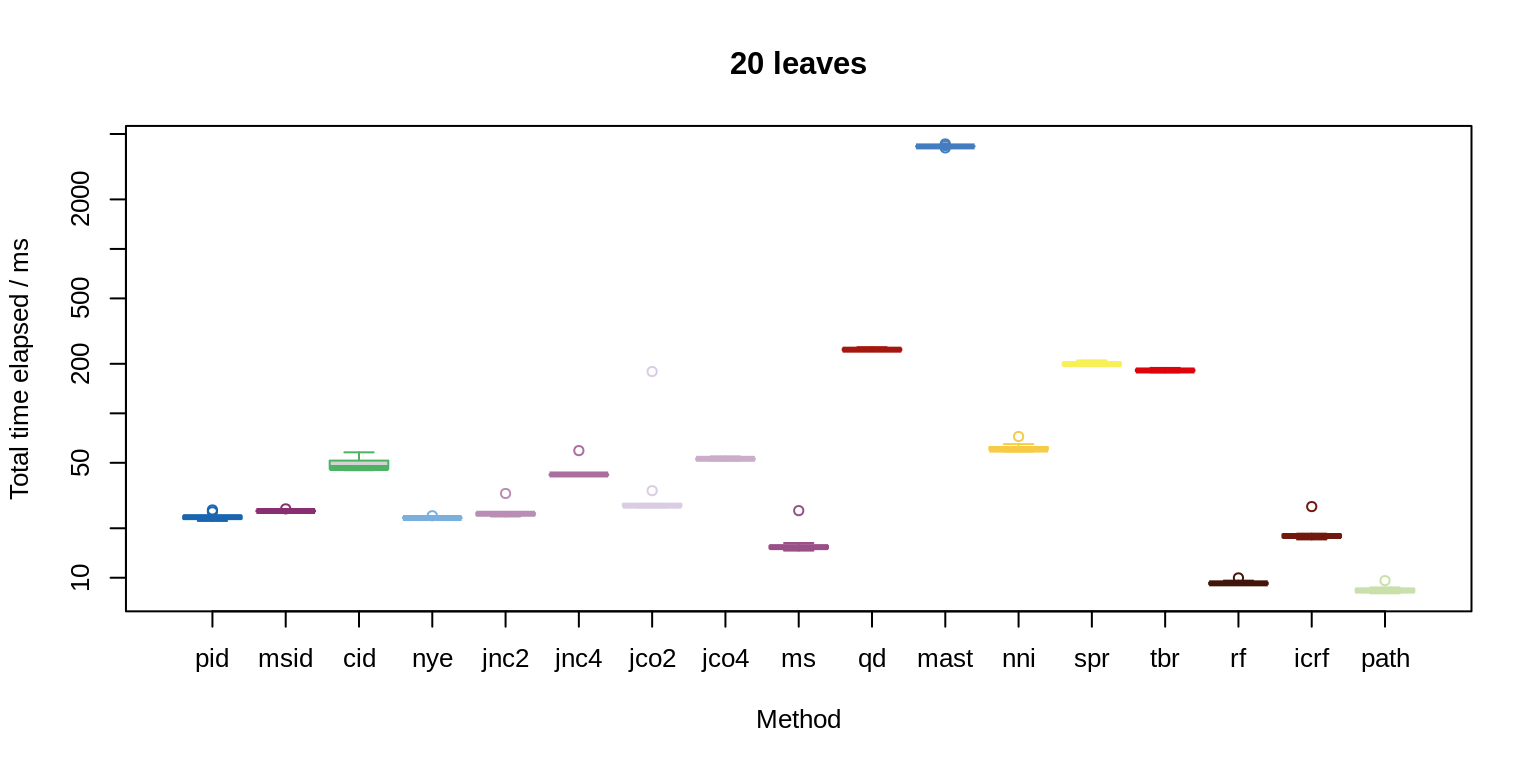
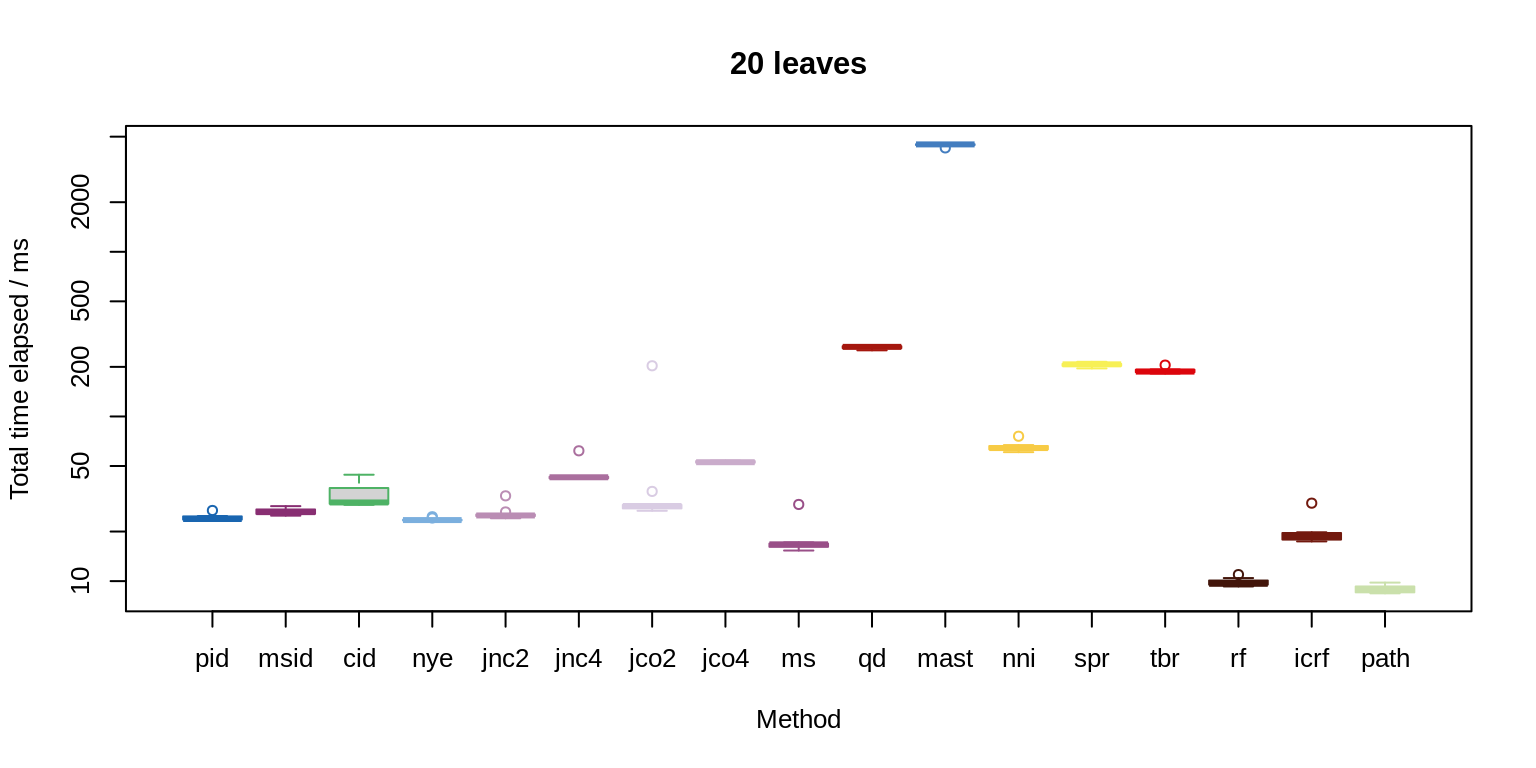
Built site for TreeDistData: 1.1.0@508a39b

diff --git a/articles/07-bullseye.html b/articles/07-bullseye.html
@@ -135,8 +135,8 @@
 <div id="tabulation" class="section level2">
 <h2 class="hasAnchor">
 <a href="#tabulation" class="anchor"></a>Tabulation</h2>
-<div id="htmlwidget-fb99cc27cd056dd5d457" style="width:100%;height:auto;" class="datatables html-widget"></div>
-<script type="application/json" data-for="htmlwidget-fb99cc27cd056dd5d457">{"x":{"filter":"none","data":[["Phylog. Info. Dist","Match. Split Info Dist","Clust. Info. Dist.","Quartet","Nye <i>et al.<\/i>","JRF (k = 2, no-confl.)","JRF (k = 4, no-confl.)","JRF (k = 2, confl.-ok)","JRF (k = 4, confl.-ok)","Match. Split Dist.","MAST size","MAST info","NNI (lwr bnd)","NNI (upr bnd)","SPR (approx.)","TBR (lwr bnd)","TBR (upr bnd)","Robinson-Foulds","Info. Corr. RF","Path"],["651","639","650","626","644","642","629","631","635","636","498","498","410","444","406","312","398","410","638","633"],["937","902","941","809","961","965","929","955","931","777","622","622","781","802","613","604","693","781","785","704"],["0.708","0.686","0.714","0.619","0.704","0.711","0.671","0.699","0.669","0.665","0.515","0.515","0.595","0.583","0.329","0.439","0.339","0.595","0.643","0.621"],["0.935","0.913","0.935","0.861","0.936","0.943","0.925","0.937","0.927","0.785","0.793","0.793","0.903","0.902","0.721","0.837","0.84","0.903","0.746","0.6"]],"container":"<table class=\"display\">\n  <thead>\n    <tr>\n      <th>Method<\/th>\n      <th>Subsampling: Success rate (50 leaves)<\/th>\n      <th>Miscoding: Success rate (50 leaves)<\/th>\n      <th>Subsampling: Accuracy (ρ)<\/th>\n      <th>Miscoding: Accuracy (ρ)<\/th>\n    <\/tr>\n  <\/thead>\n<\/table>","options":{"paging":false,"searching":false,"info":false,"order":[],"autoWidth":false,"orderClasses":false}},"evals":[],"jsHooks":[]}</script>
+<div id="htmlwidget-641c8507c1d8e4777431" style="width:100%;height:auto;" class="datatables html-widget"></div>
+<script type="application/json" data-for="htmlwidget-641c8507c1d8e4777431">{"x":{"filter":"none","data":[["Phylog. Info. Dist","Match. Split Info Dist","Clust. Info. Dist.","Quartet","Nye <i>et al.<\/i>","JRF (k = 2, no-confl.)","JRF (k = 4, no-confl.)","JRF (k = 2, confl.-ok)","JRF (k = 4, confl.-ok)","Match. Split Dist.","MAST size","MAST info","NNI (lwr bnd)","NNI (upr bnd)","SPR (approx.)","TBR (lwr bnd)","TBR (upr bnd)","Robinson-Foulds","Info. Corr. RF","Path"],["651","639","650","626","644","642","629","631","635","636","498","498","410","444","406","312","398","410","638","633"],["937","902","941","809","961","965","929","955","931","777","622","622","781","802","613","604","693","781","785","704"],["0.708","0.686","0.714","0.619","0.704","0.711","0.671","0.699","0.669","0.665","0.515","0.515","0.595","0.583","0.329","0.439","0.339","0.595","0.643","0.621"],["0.935","0.913","0.935","0.861","0.936","0.943","0.925","0.937","0.927","0.785","0.793","0.793","0.903","0.902","0.721","0.837","0.84","0.903","0.746","0.6"]],"container":"<table class=\"display\">\n  <thead>\n    <tr>\n      <th>Method<\/th>\n      <th>Subsampling: Success rate (50 leaves)<\/th>\n      <th>Miscoding: Success rate (50 leaves)<\/th>\n      <th>Subsampling: Accuracy (ρ)<\/th>\n      <th>Miscoding: Accuracy (ρ)<\/th>\n    <\/tr>\n  <\/thead>\n<\/table>","options":{"paging":false,"searching":false,"info":false,"order":[],"autoWidth":false,"orderClasses":false}},"evals":[],"jsHooks":[]}</script>
 </div>
   </div>
 

diff --git a/articles/06-lin-cluster-recovery.html b/articles/06-lin-cluster-recovery.html
@@ -132,8 +132,8 @@
 <h2 class="hasAnchor">
 <a href="#rankings" class="anchor"></a>Rankings</h2>
 <p>Rankings were calculated for each value of <em>k</em> and each clustering method, using lowest value in ties. The table reports the average ranking for all values of <em>k</em> and all clustering methods for each test.</p>
-<div id="htmlwidget-81bd4c83eb282d3f79ff" style="width:100%;height:auto;" class="datatables html-widget"></div>
-<script type="application/json" data-for="htmlwidget-81bd4c83eb282d3f79ff">{"x":{"filter":"none","data":[["Nye <i>et al.<\/i>","JRF (k = 2, confl.-ok)","Clust. Info. Dist.","Match. Split Info Dist","JRF (k = 4, confl.-ok)","JRF (k = 2, no-confl.)","Match. Split Dist.","JRF (k = 4, no-confl.)","Quartet","Phylog. Info. Dist","TBR (upr bnd)","SPR (approx.)","NNI (upr bnd)","NNI (lwr bnd)","Robinson-Foulds","TBR (lwr bnd)","Path","Info. Corr. RF"],["4.66","5.4","4.46","4.62","8.08","7.36","7.26","9.52","5.14","6.5","11.58","12.18","13.38","13.84","13.84","12.7","14.14","16.34"],["4.15","5","7.1","5.45","6.75","11.475","3.825","10.825","9.55","13.75","11.4","9.225","11.15","10.975","10.975","11.475","11.9","16.025"],["3.76","2.6","5.96","9.46","4.7","2.76","14.84","5.96","12.38","7.1","10.72","13","10.82","11.24","11.24","12.74","16.14","15.58"],["4.19","4.33","5.84","6.51","6.51","7.2","8.64","8.77","9.02","9.12","11.23","11.47","11.78","12.02","12.02","12.3","14.06","15.98"]],"container":"<table class=\"display\">\n  <thead>\n    <tr>\n      <th>Method<\/th>\n      <th>Test one<\/th>\n      <th>Test two<\/th>\n      <th>Test three<\/th>\n      <th>Mean rank<\/th>\n    <\/tr>\n  <\/thead>\n<\/table>","options":{"paging":false,"searching":false,"info":false,"order":[],"autoWidth":false,"orderClasses":false}},"evals":[],"jsHooks":[]}</script>
+<div id="htmlwidget-fbf346100837b04c4799" style="width:100%;height:auto;" class="datatables html-widget"></div>
+<script type="application/json" data-for="htmlwidget-fbf346100837b04c4799">{"x":{"filter":"none","data":[["Nye <i>et al.<\/i>","JRF (k = 2, confl.-ok)","Clust. Info. Dist.","Match. Split Info Dist","JRF (k = 4, confl.-ok)","JRF (k = 2, no-confl.)","Match. Split Dist.","JRF (k = 4, no-confl.)","Quartet","Phylog. Info. Dist","TBR (upr bnd)","SPR (approx.)","NNI (upr bnd)","NNI (lwr bnd)","Robinson-Foulds","TBR (lwr bnd)","Path","Info. Corr. RF"],["4.66","5.4","4.46","4.62","8.08","7.36","7.26","9.52","5.14","6.5","11.58","12.18","13.38","13.84","13.84","12.7","14.14","16.34"],["4.15","5","7.1","5.45","6.75","11.475","3.825","10.825","9.55","13.75","11.4","9.225","11.15","10.975","10.975","11.475","11.9","16.025"],["3.76","2.6","5.96","9.46","4.7","2.76","14.84","5.96","12.38","7.1","10.72","13","10.82","11.24","11.24","12.74","16.14","15.58"],["4.19","4.33","5.84","6.51","6.51","7.2","8.64","8.77","9.02","9.12","11.23","11.47","11.78","12.02","12.02","12.3","14.06","15.98"]],"container":"<table class=\"display\">\n  <thead>\n    <tr>\n      <th>Method<\/th>\n      <th>Test one<\/th>\n      <th>Test two<\/th>\n      <th>Test three<\/th>\n      <th>Mean rank<\/th>\n    <\/tr>\n  <\/thead>\n<\/table>","options":{"paging":false,"searching":false,"info":false,"order":[],"autoWidth":false,"orderClasses":false}},"evals":[],"jsHooks":[]}</script>
 </div>
   </div>
 

diff --git a/articles/05-tree-shape.html b/articles/05-tree-shape.html
@@ -130,8 +130,8 @@
 <p><img src="05-tree-shape_files/figure-html/tree-shapes-1.png" width="576" style="display: block; margin: auto;"></p>
 <p>To evaluate the extent to which trees are ranked as less (or more) different simply because they exhibit the same shape, I evaluated the extent to which tree distance could be predicted based only on knowledge of the topology of the two input trees.</p>
 <p><img src="05-tree-shape_files/figure-html/analyse-1.png" width="576" style="display: block; margin: auto;"></p>
-<div id="htmlwidget-f51c218b7390e8657d4d" style="width:100%;height:auto;" class="datatables html-widget"></div>
-<script type="application/json" data-for="htmlwidget-f51c218b7390e8657d4d">{"x":{"filter":"none","data":[["Phylog. Info. Dist","Match. Split Info Dist","Clust. Info. Dist.","Quartet","Nye <i>et al.<\/i>","JRF (k = 2, no-confl.)","JRF (k = 4, no-confl.)","JRF (k = 2, confl.-ok)","JRF (k = 4, confl.-ok)","Match. Split Dist.","MAST size","MAST info","NNI (lwr bnd)","NNI (ub tight)","NNI (upr bnd)","SPR (approx.)","TBR (lwr bnd)","TBR (upr bnd)","Robinson-Foulds","Info. Corr. RF","Path"],["0.0095","0.013","0.01","1e-04","0.0136","0.0097","0.0044","0.0037","0.0021","0.0661","0.0075","0.0078","0.0192","0.0156","0.0265","0.0099","0.0089","0.0011","0.0192","0.2484","0.4852"],["0.0093","0.0128","0.0098","-1e-04","0.0134","0.0095","0.0042","0.0035","0.0019","0.0659","0.0074","0.0076","0.019","0.0154","0.0263","0.0098","0.0087","9e-04","0.019","0.2483","0.4851"]],"container":"<table class=\"display\">\n  <thead>\n    <tr>\n      <th>Method<\/th>\n      <th>r²<\/th>\n      <th>adjusted r²<\/th>\n    <\/tr>\n  <\/thead>\n<\/table>","options":{"paging":false,"searching":false,"info":false,"order":[],"autoWidth":false,"orderClasses":false}},"evals":[],"jsHooks":[]}</script>
+<div id="htmlwidget-efff0794b2610261305a" style="width:100%;height:auto;" class="datatables html-widget"></div>
+<script type="application/json" data-for="htmlwidget-efff0794b2610261305a">{"x":{"filter":"none","data":[["Phylog. Info. Dist","Match. Split Info Dist","Clust. Info. Dist.","Quartet","Nye <i>et al.<\/i>","JRF (k = 2, no-confl.)","JRF (k = 4, no-confl.)","JRF (k = 2, confl.-ok)","JRF (k = 4, confl.-ok)","Match. Split Dist.","MAST size","MAST info","NNI (lwr bnd)","NNI (ub tight)","NNI (upr bnd)","SPR (approx.)","TBR (lwr bnd)","TBR (upr bnd)","Robinson-Foulds","Info. Corr. RF","Path"],["0.0095","0.013","0.01","1e-04","0.0136","0.0097","0.0044","0.0037","0.0021","0.0661","0.0075","0.0078","0.0192","0.0156","0.0265","0.0099","0.0089","0.0011","0.0192","0.2484","0.4852"],["0.0093","0.0128","0.0098","-1e-04","0.0134","0.0095","0.0042","0.0035","0.0019","0.0659","0.0074","0.0076","0.019","0.0154","0.0263","0.0098","0.0087","9e-04","0.019","0.2483","0.4851"]],"container":"<table class=\"display\">\n  <thead>\n    <tr>\n      <th>Method<\/th>\n      <th>r²<\/th>\n      <th>adjusted r²<\/th>\n    <\/tr>\n  <\/thead>\n<\/table>","options":{"paging":false,"searching":false,"info":false,"order":[],"autoWidth":false,"orderClasses":false}},"evals":[],"jsHooks":[]}</script>
 </div>
 
   <div class="col-md-3 hidden-xs hidden-sm" id="pkgdown-sidebar">

diff --git a/articles/01-length-of-move.html b/articles/01-length-of-move.html
@@ -138,8 +138,8 @@
 <p><img src="01-length-of-move_files/figure-html/unnamed-chunk-2-1.png" width="691.2"></p>
 <p>The <em>move length</em> between any pair of these trees is defined as the number of nodes that must be traversed to travel from the position of the eleventh leaf in one tree to its position in the second. I define a <em>mis-ordering</em> as a case where the distance between a pair of trees is not strictly larger than the distance between every tree pair with a shorter move length, or a case where the distance is not strictly smaller than that between every tree pair with a greater move length.</p>
 <p>We would like a metric to display a monotonic increase, such that all tree pairs with <em>n</em> edges between the added leaves are further apart than any tree pair with <em>n</em> − 1 edges between the added leaves.</p>
-<div id="htmlwidget-06daf564a7593eab6c1c" style="width:100%;height:auto;" class="datatables html-widget"></div>
-<script type="application/json" data-for="htmlwidget-06daf564a7593eab6c1c">{"x":{"filter":"none","data":[["Clust. Info. Dist.","Phylog. Info. Dist","Nye <i>et al.<\/i>","JRF (k = 2, confl.-ok)","JRF (k = 4, confl.-ok)","JRF (k = 2, no-confl.)","JRF (k = 4, no-confl.)","Robinson-Foulds","Info. Corr. RF","Path","Match. Split Info Dist","Match. Split Dist.","Quartet","MAST size","MAST info","NNI (upr bnd)","NNI (lwr bnd)","SPR (approx.)","TBR (lwr bnd)","TBR (upr bnd)"],[8,84,24,0,0,0,0,0,533,126,0,354,94,480,480,0,0,480,480,480]],"container":"<table class=\"display\">\n  <thead>\n    <tr>\n      <th>Method<\/th>\n      <th>Mis-orderings<\/th>\n    <\/tr>\n  <\/thead>\n<\/table>","options":{"paging":false,"searching":false,"info":false,"order":[],"autoWidth":false,"orderClasses":false}},"evals":[],"jsHooks":[]}</script>
+<div id="htmlwidget-9e18ac16ab02874ce284" style="width:100%;height:auto;" class="datatables html-widget"></div>
+<script type="application/json" data-for="htmlwidget-9e18ac16ab02874ce284">{"x":{"filter":"none","data":[["Clust. Info. Dist.","Phylog. Info. Dist","Nye <i>et al.<\/i>","JRF (k = 2, confl.-ok)","JRF (k = 4, confl.-ok)","JRF (k = 2, no-confl.)","JRF (k = 4, no-confl.)","Robinson-Foulds","Info. Corr. RF","Path","Match. Split Info Dist","Match. Split Dist.","Quartet","MAST size","MAST info","NNI (upr bnd)","NNI (lwr bnd)","SPR (approx.)","TBR (lwr bnd)","TBR (upr bnd)"],[8,84,24,0,0,0,0,0,533,126,0,354,94,480,480,0,0,480,480,480]],"container":"<table class=\"display\">\n  <thead>\n    <tr>\n      <th>Method<\/th>\n      <th>Mis-orderings<\/th>\n    <\/tr>\n  <\/thead>\n<\/table>","options":{"paging":false,"searching":false,"info":false,"order":[],"autoWidth":false,"orderClasses":false}},"evals":[],"jsHooks":[]}</script>
 </div>
   </div>
 

diff --git a/articles/04-saturation-and-sensitivity.html b/articles/04-saturation-and-sensitivity.html
@@ -127,8 +127,8 @@
     
     
 <p>Number of 100 000 trees at maximum distance from a pectinate 11-leaf reference tree:</p>
-<div id="htmlwidget-d9ca77720e28f80ec214" style="width:100%;height:auto;" class="datatables html-widget"></div>
-<script type="application/json" data-for="htmlwidget-d9ca77720e28f80ec214">{"x":{"filter":"none","data":[["Phylog. Info. Dist","Match. Split Info Dist","Clust. Info. Dist.","Quartet","Nye <i>et al.<\/i>","JRF (k = 2, no-confl.)","JRF (k = 4, no-confl.)","JRF (k = 2, confl.-ok)","JRF (k = 4, confl.-ok)","Match. Split Dist.","MAST size","MAST info","NNI (lwr bnd)","NNI (ub tight)","NNI (upr bnd)","SPR (approx.)","TBR (lwr bnd)","TBR (upr bnd)","Robinson-Foulds","Info. Corr. RF","Path","MAF info"],["36","1","1","1","2","36","36","1","2","11","6154","6154","86336","86336","86336","2388","7474","7474","86336","13044","1","2"],["26478","24167","28939","200","4381","19221","20488","27790","28781","28","7","7","6","12","16","5","4","7","6","208","302","20"]],"container":"<table class=\"display\">\n  <thead>\n    <tr>\n      <th>Method<\/th>\n      <th>Trees with maximum score<\/th>\n      <th>Unique distances<\/th>\n    <\/tr>\n  <\/thead>\n<\/table>","options":{"paging":false,"searching":false,"info":false,"order":[],"autoWidth":false,"orderClasses":false}},"evals":[],"jsHooks":[]}</script>
+<div id="htmlwidget-95c6f066f301f03fa30c" style="width:100%;height:auto;" class="datatables html-widget"></div>
+<script type="application/json" data-for="htmlwidget-95c6f066f301f03fa30c">{"x":{"filter":"none","data":[["Phylog. Info. Dist","Match. Split Info Dist","Clust. Info. Dist.","Quartet","Nye <i>et al.<\/i>","JRF (k = 2, no-confl.)","JRF (k = 4, no-confl.)","JRF (k = 2, confl.-ok)","JRF (k = 4, confl.-ok)","Match. Split Dist.","MAST size","MAST info","NNI (lwr bnd)","NNI (ub tight)","NNI (upr bnd)","SPR (approx.)","TBR (lwr bnd)","TBR (upr bnd)","Robinson-Foulds","Info. Corr. RF","Path","MAF info"],["36","1","1","1","2","36","36","1","2","11","6154","6154","86336","86336","86336","2388","7474","7474","86336","13044","1","2"],["26478","24167","28939","200","4381","19221","20488","27790","28781","28","7","7","6","12","16","5","4","7","6","208","302","20"]],"container":"<table class=\"display\">\n  <thead>\n    <tr>\n      <th>Method<\/th>\n      <th>Trees with maximum score<\/th>\n      <th>Unique distances<\/th>\n    <\/tr>\n  <\/thead>\n<\/table>","options":{"paging":false,"searching":false,"info":false,"order":[],"autoWidth":false,"orderClasses":false}},"evals":[],"jsHooks":[]}</script>
 </div>
 
   <div class="col-md-3 hidden-xs hidden-sm" id="pkgdown-sidebar">

diff --git a/articles/10-timing.html b/articles/10-timing.html
@@ -139,7 +139,7 @@ The values reported in Smith <span class="citation">(2020)</span> were calculate
 <h2 class="hasAnchor">
 <a href="#tabulation" class="anchor"></a>Tabulation</h2>
 <div id="htmlwidget-645c4a0173fa826ea5fd" style="width:100%;height:auto;" class="datatables html-widget"></div>
-<script type="application/json" data-for="htmlwidget-645c4a0173fa826ea5fd">{"x":{"filter":"none","caption":"<caption>Mean time per comparison / µs<\/caption>","data":[["Path","Robinson-Foulds","Match. Split Dist.","Info. Corr. RF","Nye <i>et al.<\/i>","Phylog. Info. Dist","JRF (k = 2, no-confl.)","Match. Split Info Dist","JRF (k = 2, confl.-ok)","JRF (k = 4, no-confl.)","Clust. Info. Dist.","JRF (k = 4, confl.-ok)","NNI (approx.)","TBR (approx.)","SPR (approx.)","Quartet","MAST size"],["8.5","9.4"," 17"," 19"," 23"," 24"," 25"," 26"," 44"," 44"," 49"," 53"," 62","180","200","250","4300"],[" 14"," 13"," 43"," 35","130"," 91","120","150","160","500","260","780"," 83","340","2200","450","21000"]],"container":"<table class=\"display\">\n  <thead>\n    <tr>\n      <th>Method<\/th>\n      <th>20 leaves<\/th>\n      <th>50 leaves<\/th>\n    <\/tr>\n  <\/thead>\n<\/table>","options":{"paging":false,"searching":false,"info":false,"order":[],"autoWidth":false,"orderClasses":false}},"evals":[],"jsHooks":[]}</script>
+<script type="application/json" data-for="htmlwidget-645c4a0173fa826ea5fd">{"x":{"filter":"none","caption":"<caption>Mean time per comparison / µs<\/caption>","data":[["Path","Robinson-Foulds","Match. Split Dist.","Info. Corr. RF","Nye <i>et al.<\/i>","Phylog. Info. Dist","JRF (k = 2, no-confl.)","Match. Split Info Dist","Clust. Info. Dist.","JRF (k = 4, no-confl.)","JRF (k = 2, confl.-ok)","JRF (k = 4, confl.-ok)","NNI (approx.)","TBR (approx.)","SPR (approx.)","Quartet","MAST size"],["  9","9.9"," 18"," 20"," 24"," 24"," 26"," 27"," 33"," 45"," 47"," 53"," 66","190","210","270","4500"],[" 15"," 15"," 44"," 34","130"," 92","110","150","140","500","160","780"," 86","350","2200","480","22000"]],"container":"<table class=\"display\">\n  <thead>\n    <tr>\n      <th>Method<\/th>\n      <th>20 leaves<\/th>\n      <th>50 leaves<\/th>\n    <\/tr>\n  <\/thead>\n<\/table>","options":{"paging":false,"searching":false,"info":false,"order":[],"autoWidth":false,"orderClasses":false}},"evals":[],"jsHooks":[]}</script>
 </div>
 <div id="reference" class="section level2 unnumbered">
 <h2 class="hasAnchor">

diff --git a/articles/09-expected-similarity.html b/articles/09-expected-similarity.html
@@ -139,8 +139,8 @@
 <h2 class="hasAnchor">
 <a href="#ranges" class="anchor"></a>Ranges</h2>
 <p>Average range of distance between random trees with 20–200 leaves, expressed as percentages of the median.</p>
-<div id="htmlwidget-fe5f3013c0a8a4be8fd1" style="width:100%;height:auto;" class="datatables html-widget"></div>
-<script type="application/json" data-for="htmlwidget-fe5f3013c0a8a4be8fd1">{"x":{"filter":"none","data":[["NNI (tgt upr bnd)","NNI (upr bnd)","Path","MAST info","NNI (lwr bnd)","Match. Split Dist.","NNI (tgt lwr bnd)","MAST size","Info. Corr. RF","SPR (approx.)","TBR (lwr bnd)","Match. Split Info Dist","TBR (upr bnd)","Nye <i>et al.<\/i>","Clust. Info. Dist.","Quartet","JRF (k = 2, confl.-ok)","Phylog. Info. Dist","JRF (k = 2, no-confl.)","JRF (k = 4, confl.-ok)","JRF (k = 4, no-confl.)","Robinson-Foulds"],["22.4","19.3","18.8","14.7","14.2","12.3","11.9","8.8","8.4","4.6","3.7","3.3","2.6","2","1.6","1.6","1.1","1","0.8","0.3","0.3","0"]],"container":"<table class=\"display\">\n  <thead>\n    <tr>\n      <th>Method<\/th>\n      <th>Range (%)<\/th>\n    <\/tr>\n  <\/thead>\n<\/table>","options":{"paging":false,"searching":false,"info":false,"order":[],"autoWidth":false,"orderClasses":false}},"evals":[],"jsHooks":[]}</script>
+<div id="htmlwidget-aab8ecdee9e589f610f2" style="width:100%;height:auto;" class="datatables html-widget"></div>
+<script type="application/json" data-for="htmlwidget-aab8ecdee9e589f610f2">{"x":{"filter":"none","data":[["NNI (tgt upr bnd)","NNI (upr bnd)","Path","MAST info","NNI (lwr bnd)","Match. Split Dist.","NNI (tgt lwr bnd)","MAST size","Info. Corr. RF","SPR (approx.)","TBR (lwr bnd)","Match. Split Info Dist","TBR (upr bnd)","Nye <i>et al.<\/i>","Clust. Info. Dist.","Quartet","JRF (k = 2, confl.-ok)","Phylog. Info. Dist","JRF (k = 2, no-confl.)","JRF (k = 4, confl.-ok)","JRF (k = 4, no-confl.)","Robinson-Foulds"],["22.4","19.3","18.8","14.7","14.2","12.3","11.9","8.8","8.4","4.6","3.7","3.3","2.6","2","1.6","1.6","1.1","1","0.8","0.3","0.3","0"]],"container":"<table class=\"display\">\n  <thead>\n    <tr>\n      <th>Method<\/th>\n      <th>Range (%)<\/th>\n    <\/tr>\n  <\/thead>\n<\/table>","options":{"paging":false,"searching":false,"info":false,"order":[],"autoWidth":false,"orderClasses":false}},"evals":[],"jsHooks":[]}</script>
 </div>
 <div id="references" class="section level2 unnumbered">
 <h2 class="hasAnchor">

diff --git a/articles/08-spr-walking.html b/articles/08-spr-walking.html
@@ -134,8 +134,8 @@
 <div id="tabulation" class="section level2">
 <h2 class="hasAnchor">
 <a href="#tabulation" class="anchor"></a>Tabulation</h2>
-<div id="htmlwidget-a5e33b3ab29fd9b9326e" style="width:100%;height:auto;" class="datatables html-widget"></div>
-<script type="application/json" data-for="htmlwidget-a5e33b3ab29fd9b9326e">{"x":{"filter":"none","data":[["TBR (lwr bnd)","Clust. Info. Dist.","NNI (ub tight)","TBR (upr bnd)","Quartet","Phylog. Info. Dist","MAST size","MAST info","Nye <i>et al.<\/i>","Match. Split Info Dist","JRF (k = 2, confl.-ok)","JRF (k = 2, no-confl.)","JRF (k = 4, confl.-ok)","JRF (k = 4, no-confl.)","SPR (approx.)","Match. Split Dist.","NNI (lwr bnd)","Robinson-Foulds","NNI (upr bnd)","Path","Info. Corr. RF"],["0.848","0.845","0.842","0.827","0.819","0.8","0.798","0.798","0.795","0.783","0.781","0.774","0.747","0.732","0.731","0.704","0.673","0.673","0.673","0.567","0.495"]],"container":"<table class=\"display\">\n  <thead>\n    <tr>\n      <th>Method<\/th>\n      <th>τ<sub>B<\/sub><\/th>\n    <\/tr>\n  <\/thead>\n<\/table>","options":{"paging":false,"searching":false,"info":false,"order":[],"autoWidth":false,"orderClasses":false}},"evals":[],"jsHooks":[]}</script>
+<div id="htmlwidget-159fa49fa0013837cfff" style="width:100%;height:auto;" class="datatables html-widget"></div>
+<script type="application/json" data-for="htmlwidget-159fa49fa0013837cfff">{"x":{"filter":"none","data":[["TBR (lwr bnd)","Clust. Info. Dist.","NNI (ub tight)","TBR (upr bnd)","Quartet","Phylog. Info. Dist","MAST size","MAST info","Nye <i>et al.<\/i>","Match. Split Info Dist","JRF (k = 2, confl.-ok)","JRF (k = 2, no-confl.)","JRF (k = 4, confl.-ok)","JRF (k = 4, no-confl.)","SPR (approx.)","Match. Split Dist.","NNI (lwr bnd)","Robinson-Foulds","NNI (upr bnd)","Path","Info. Corr. RF"],["0.848","0.845","0.842","0.827","0.819","0.8","0.798","0.798","0.795","0.783","0.781","0.774","0.747","0.732","0.731","0.704","0.673","0.673","0.673","0.567","0.495"]],"container":"<table class=\"display\">\n  <thead>\n    <tr>\n      <th>Method<\/th>\n      <th>τ<sub>B<\/sub><\/th>\n    <\/tr>\n  <\/thead>\n<\/table>","options":{"paging":false,"searching":false,"info":false,"order":[],"autoWidth":false,"orderClasses":false}},"evals":[],"jsHooks":[]}</script>
 </div>
   </div>
 

diff --git a/articles/02-leaves-moved.html b/articles/02-leaves-moved.html
@@ -143,8 +143,8 @@
 <div id="results" class="section level2">
 <h2 class="hasAnchor">
 <a href="#results" class="anchor"></a>Results</h2>
-<div id="htmlwidget-41bef864173b5ec04794" style="width:100%;height:auto;" class="datatables html-widget"></div>
-<script type="application/json" data-for="htmlwidget-41bef864173b5ec04794">{"x":{"filter":"none","data":[["Phylog. Info. Dist","Match. Split Info Dist","Clust. Info. Dist.","Quartet","Nye <i>et al.<\/i>","JRF (k = 2, no-confl.)","JRF (k = 4, no-confl.)","JRF (k = 2, confl.-ok)","JRF (k = 4, confl.-ok)","Match. Split Dist.","MAST size","MAST info","NNI (lwr bnd)","NNI (tgt lwr bnd)","NNI (ub tight)","NNI (tgt upr bnd)","NNI (upr bnd)","SPR (approx.)","TBR (lwr bnd)","TBR (upr bnd)","Robinson-Foulds","Info. Corr. RF","Path"],["0","23","0","17","24","7","17","0","0","34","17","17","289","289","289","289","289","289","289","289","289","146","0"]],"container":"<table class=\"display\">\n  <thead>\n    <tr>\n      <th>Method<\/th>\n      <th>Inconsistencies<\/th>\n    <\/tr>\n  <\/thead>\n<\/table>","options":{"paging":false,"searching":false,"info":false,"order":[],"autoWidth":false,"orderClasses":false}},"evals":[],"jsHooks":[]}</script>
+<div id="htmlwidget-a4a5a5f46934e42328db" style="width:100%;height:auto;" class="datatables html-widget"></div>
+<script type="application/json" data-for="htmlwidget-a4a5a5f46934e42328db">{"x":{"filter":"none","data":[["Phylog. Info. Dist","Match. Split Info Dist","Clust. Info. Dist.","Quartet","Nye <i>et al.<\/i>","JRF (k = 2, no-confl.)","JRF (k = 4, no-confl.)","JRF (k = 2, confl.-ok)","JRF (k = 4, confl.-ok)","Match. Split Dist.","MAST size","MAST info","NNI (lwr bnd)","NNI (tgt lwr bnd)","NNI (ub tight)","NNI (tgt upr bnd)","NNI (upr bnd)","SPR (approx.)","TBR (lwr bnd)","TBR (upr bnd)","Robinson-Foulds","Info. Corr. RF","Path"],["0","23","0","17","24","7","17","0","0","34","17","17","289","289","289","289","289","289","289","289","289","146","0"]],"container":"<table class=\"display\">\n  <thead>\n    <tr>\n      <th>Method<\/th>\n      <th>Inconsistencies<\/th>\n    <\/tr>\n  <\/thead>\n<\/table>","options":{"paging":false,"searching":false,"info":false,"order":[],"autoWidth":false,"orderClasses":false}},"evals":[],"jsHooks":[]}</script>
 </div>
   </div>
 
